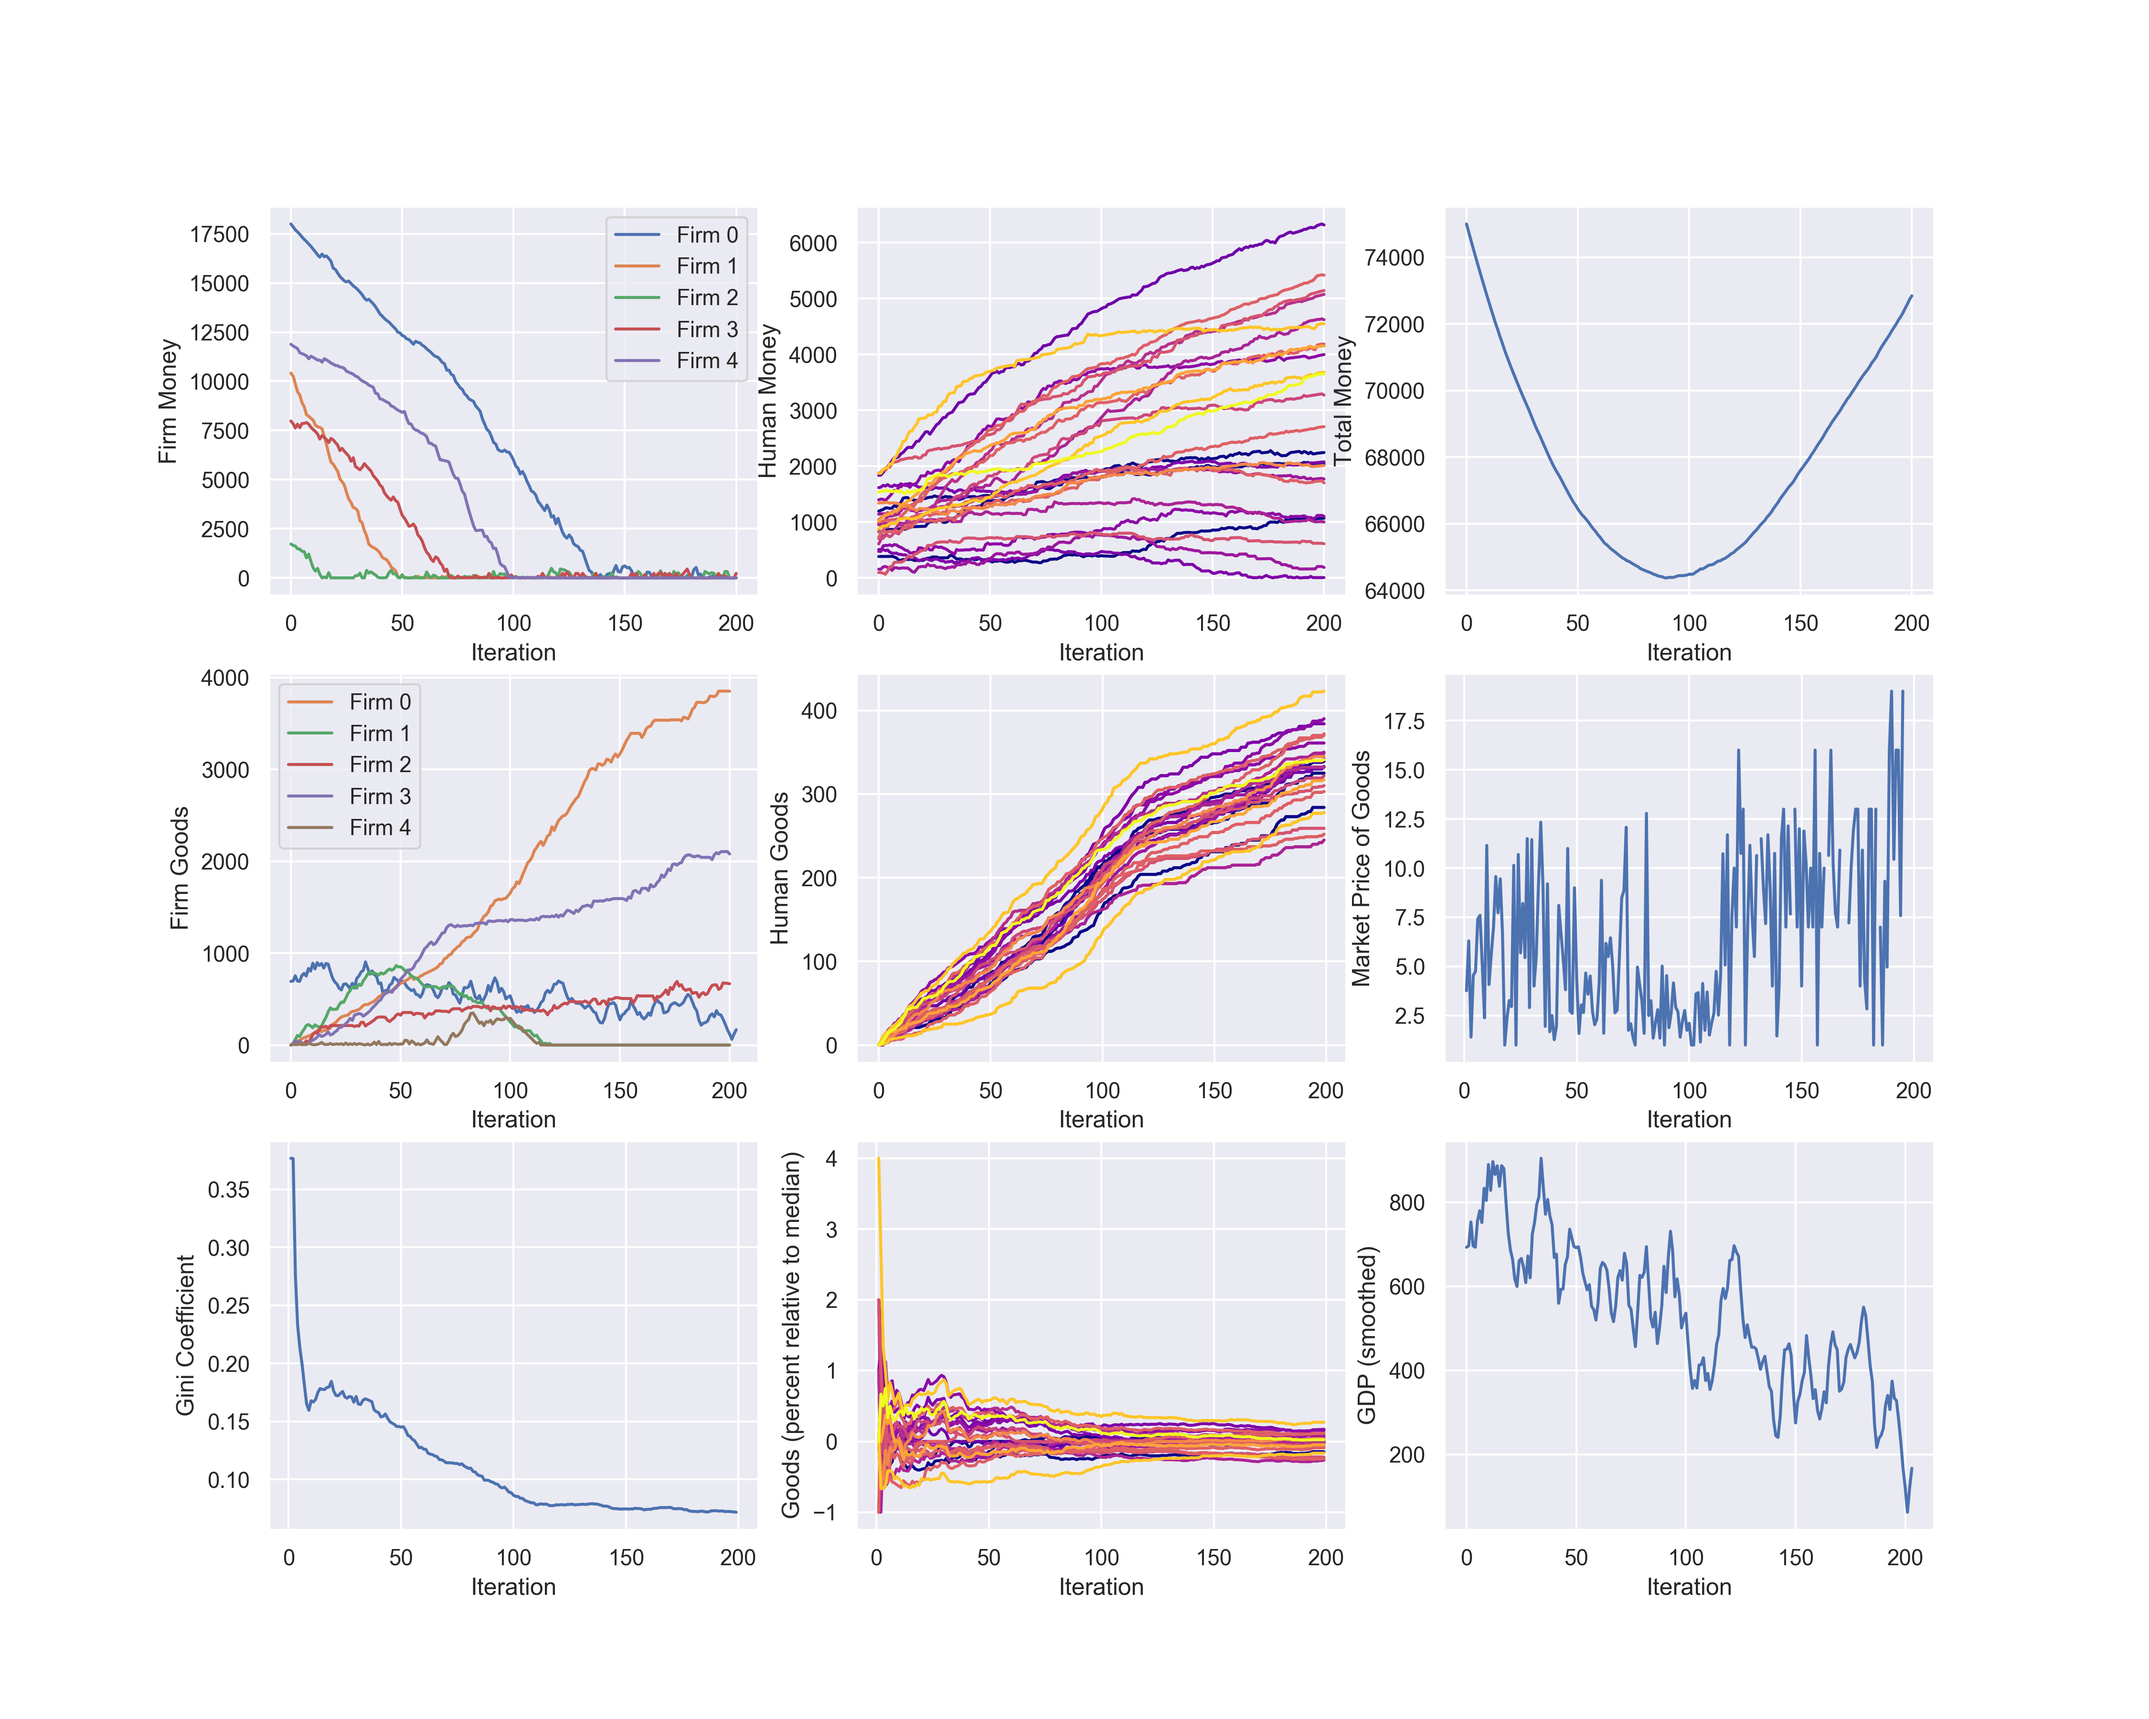
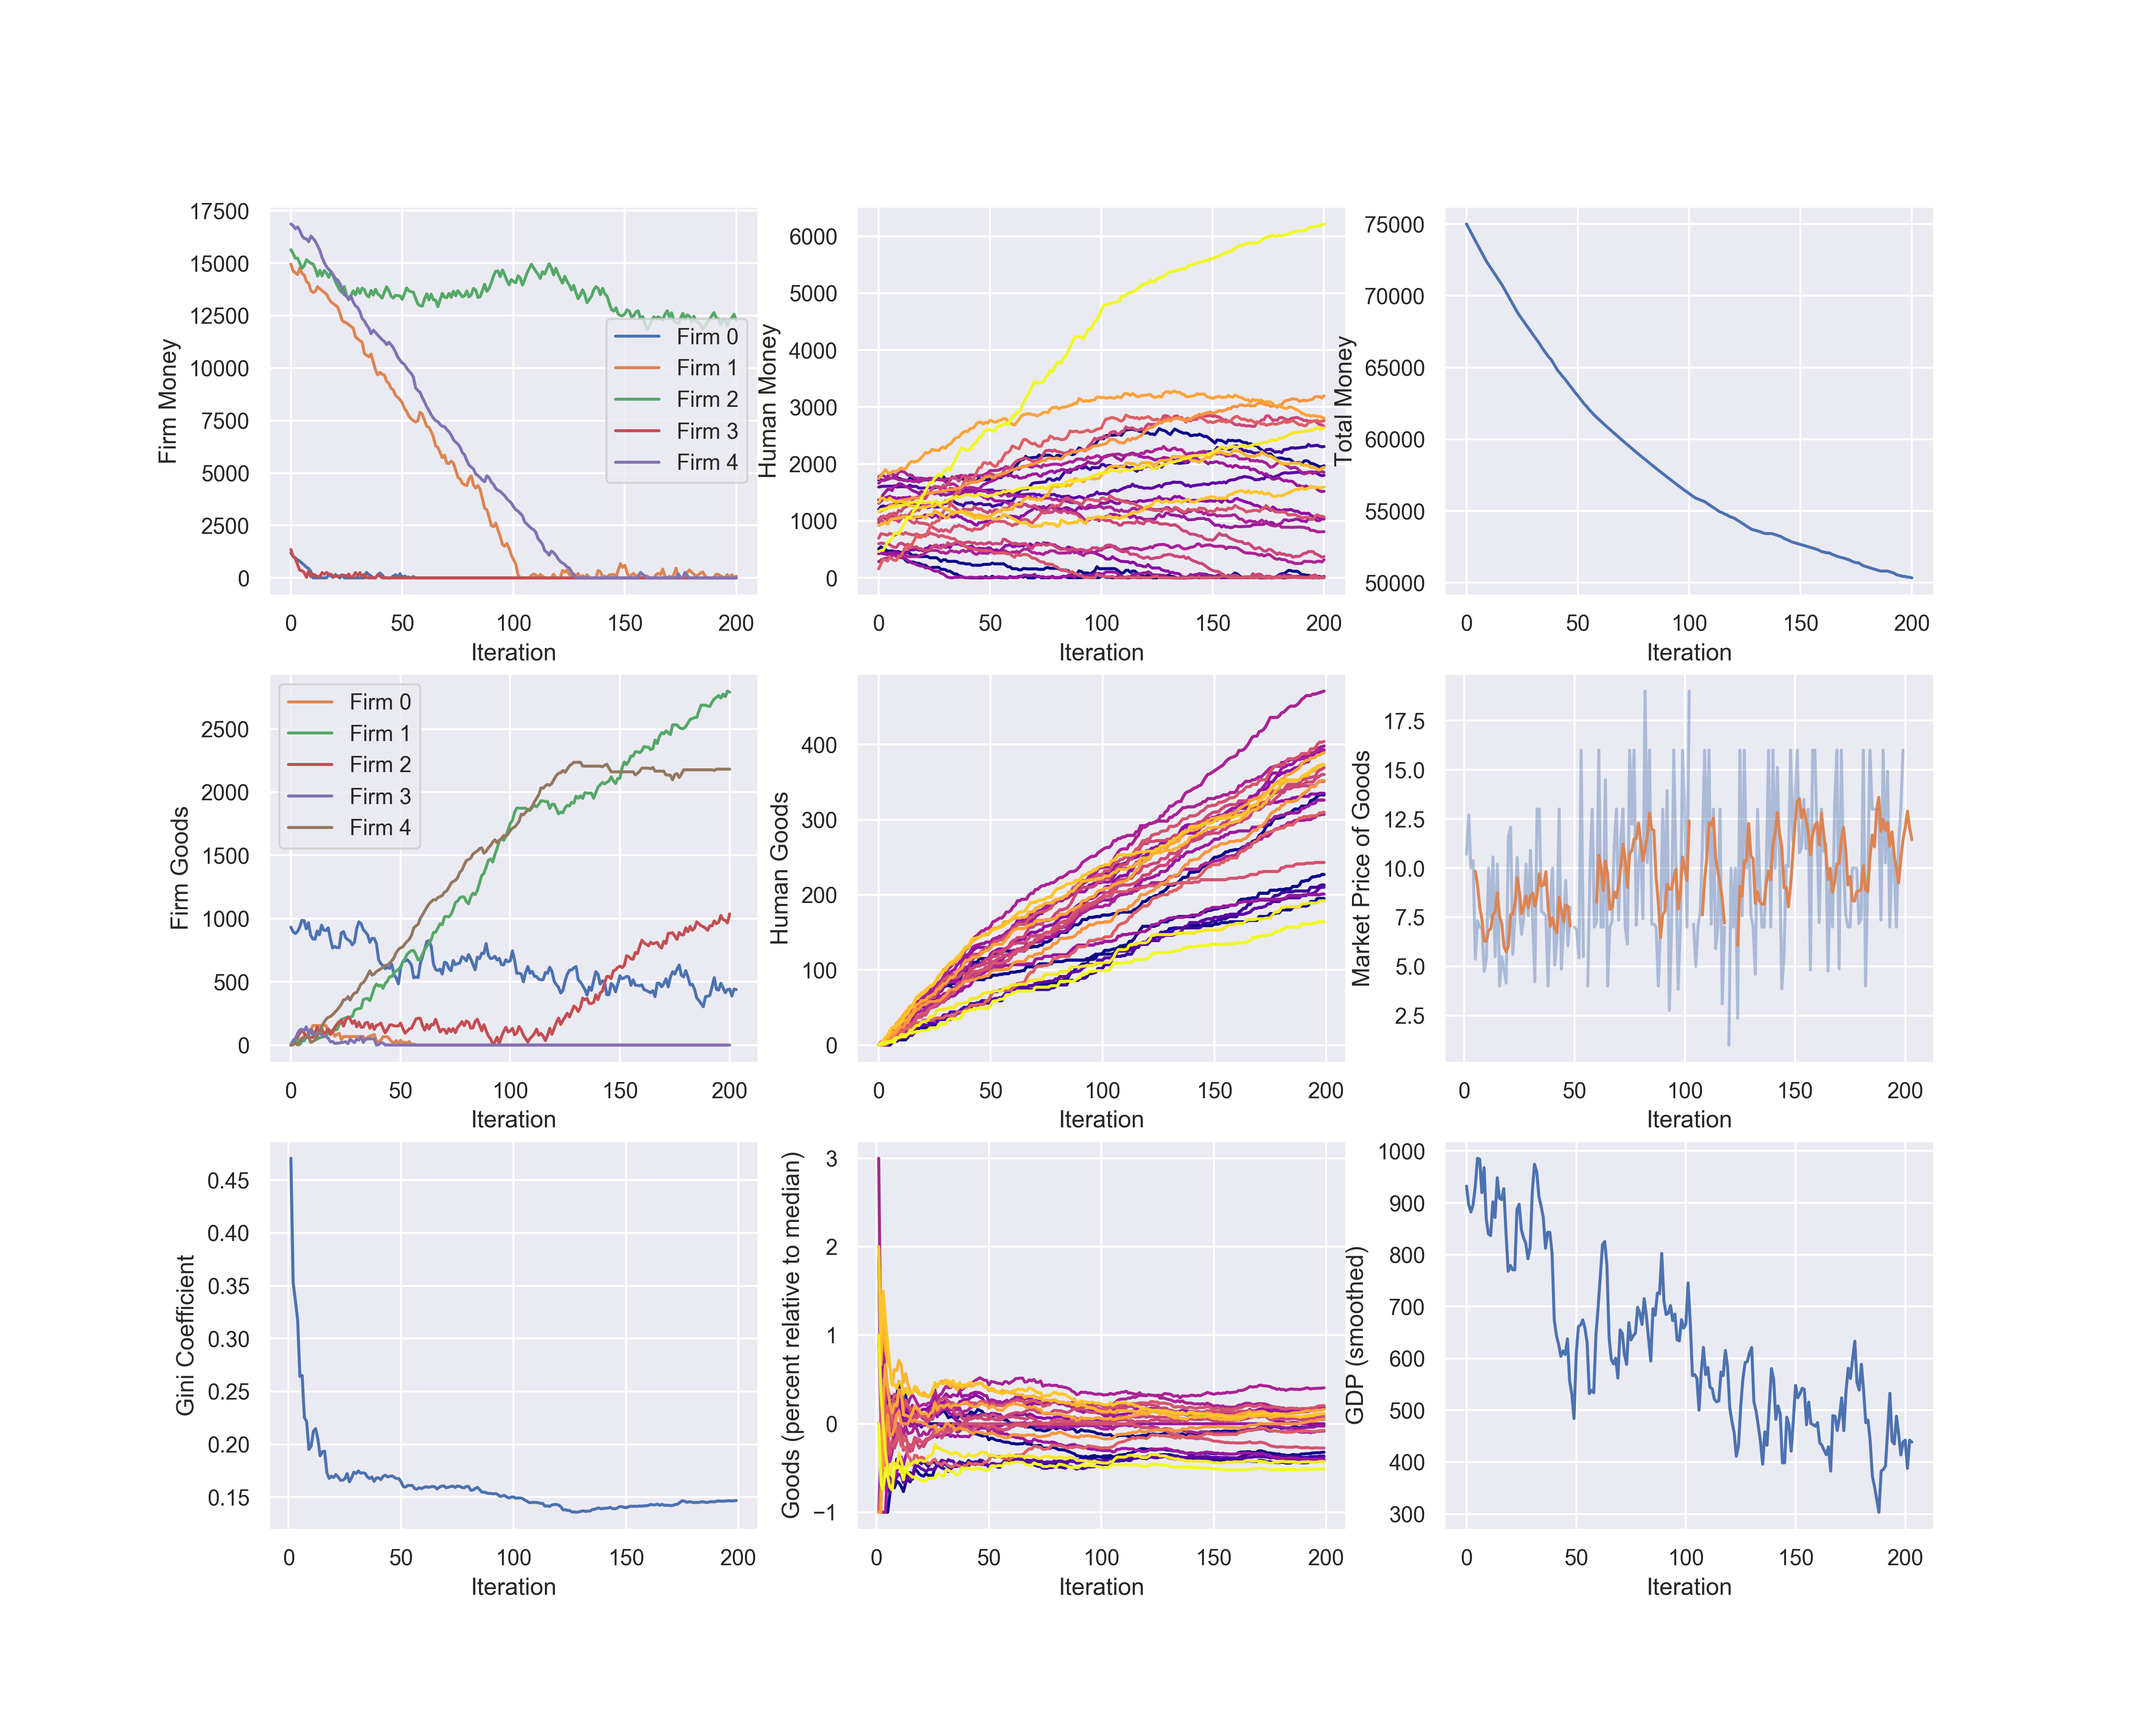
Done testing

diff --git a/main.py b/main.py
@@ -24,12 +24,12 @@ def reinforce_test():
     num_iters = 100
     avg_GDP = []
     for i in range(num_iters):
-        stats = m.run_episode(200, verbose=True)
-        save_plots_from_iteration(stats, i, 'plots/test8/test')
+        stats = m.run_episode(300, verbose=True)
+        save_plots_from_iteration(stats, i, 'plots/test9/test')
         # avg_GDP.append(np.mean(stats['GDP_over_time']))
 
-    stats = m.run_episode(200)
-    save_plots_from_iteration(stats, i, 'plots/test8/test-final')
+    stats = m.run_episode(300)
+    save_plots_from_iteration(stats, i, 'plots/test9/test-final')
     # print_stats(m, stats)
     # plot_wealth_histories(m, stats)
 

diff --git a/constants.py b/constants.py
@@ -13,8 +13,8 @@ TOTAL_MONEY_FIRMS = 10000 * NUM_FIRMS
 TOTAL_MONEY_PEOPLE = 1000 * NUM_PEOPLE
 DISCOUNT = 0.99
 HUMAN_INTEREST = 1.00 + 0.05 / NUM_PEOPLE
-FIRM_INTEREST = 1.00 - 0.02 / NUM_FIRMS
-FIRM_OPERATING_COST = 20
+FIRM_INTEREST = 1.00 #- 0.0075 / NUM_FIRMS
+FIRM_OPERATING_COST = 10 # 20
 
 # Length of firm demand curve.
 NUM_GOODS_MAX_PRODUCE = NUM_GOODS_MAX_BUY * NUM_PEOPLE

diff --git a/analytics.py b/analytics.py
@@ -194,7 +194,9 @@ def plot_firm_goods(ax, stats):
     ax.legend()
 
 def plot_market_price_goods(ax, stats):
-    ax.plot(stats['market_price_goods'])
+
+    ax.plot(stats['market_price_goods'], alpha=0.4)
+    ax.plot(smooth(stats['market_price_goods'], k=5))
     ax.set_xlabel("Iteration")
     ax.set_ylabel("Market Price of Goods")
 
